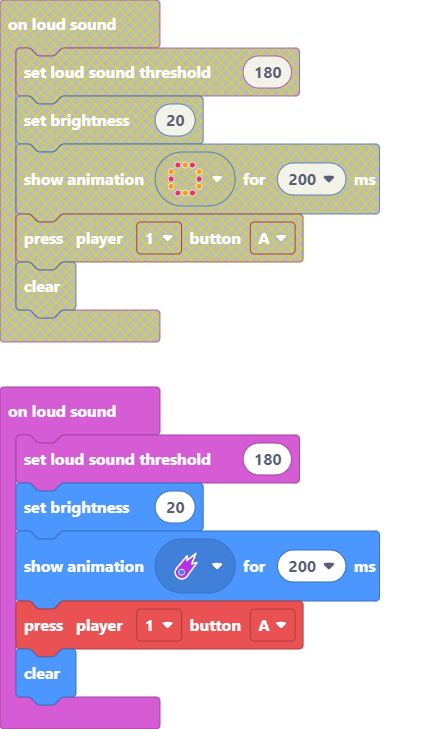
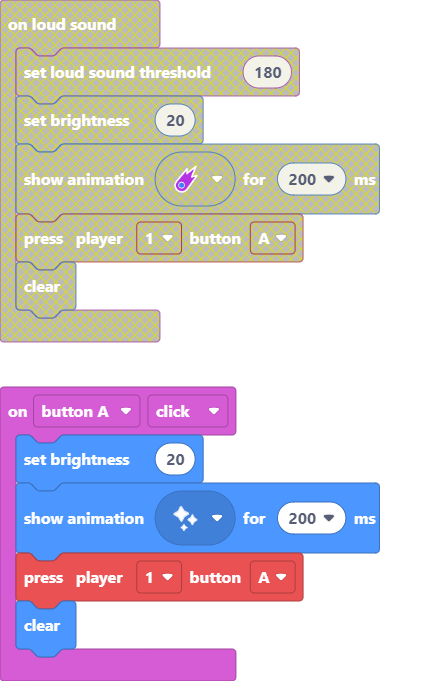
Update main.blocks, main.ts

diff --git a/main.ts b/main.ts
@@ -1,7 +1,6 @@
-input.onLoudSound(function () {
-    input.setLoudSoundThreshold(180)
+input.buttonA.onEvent(ButtonEvent.Click, function () {
     light.setBrightness(20)
-    light.showAnimation(light.cometAnimation, 200)
+    light.showAnimation(light.sparkleAnimation, 200)
     makerController.player1.press(ArcadeButton.A)
     light.clear()
 })
